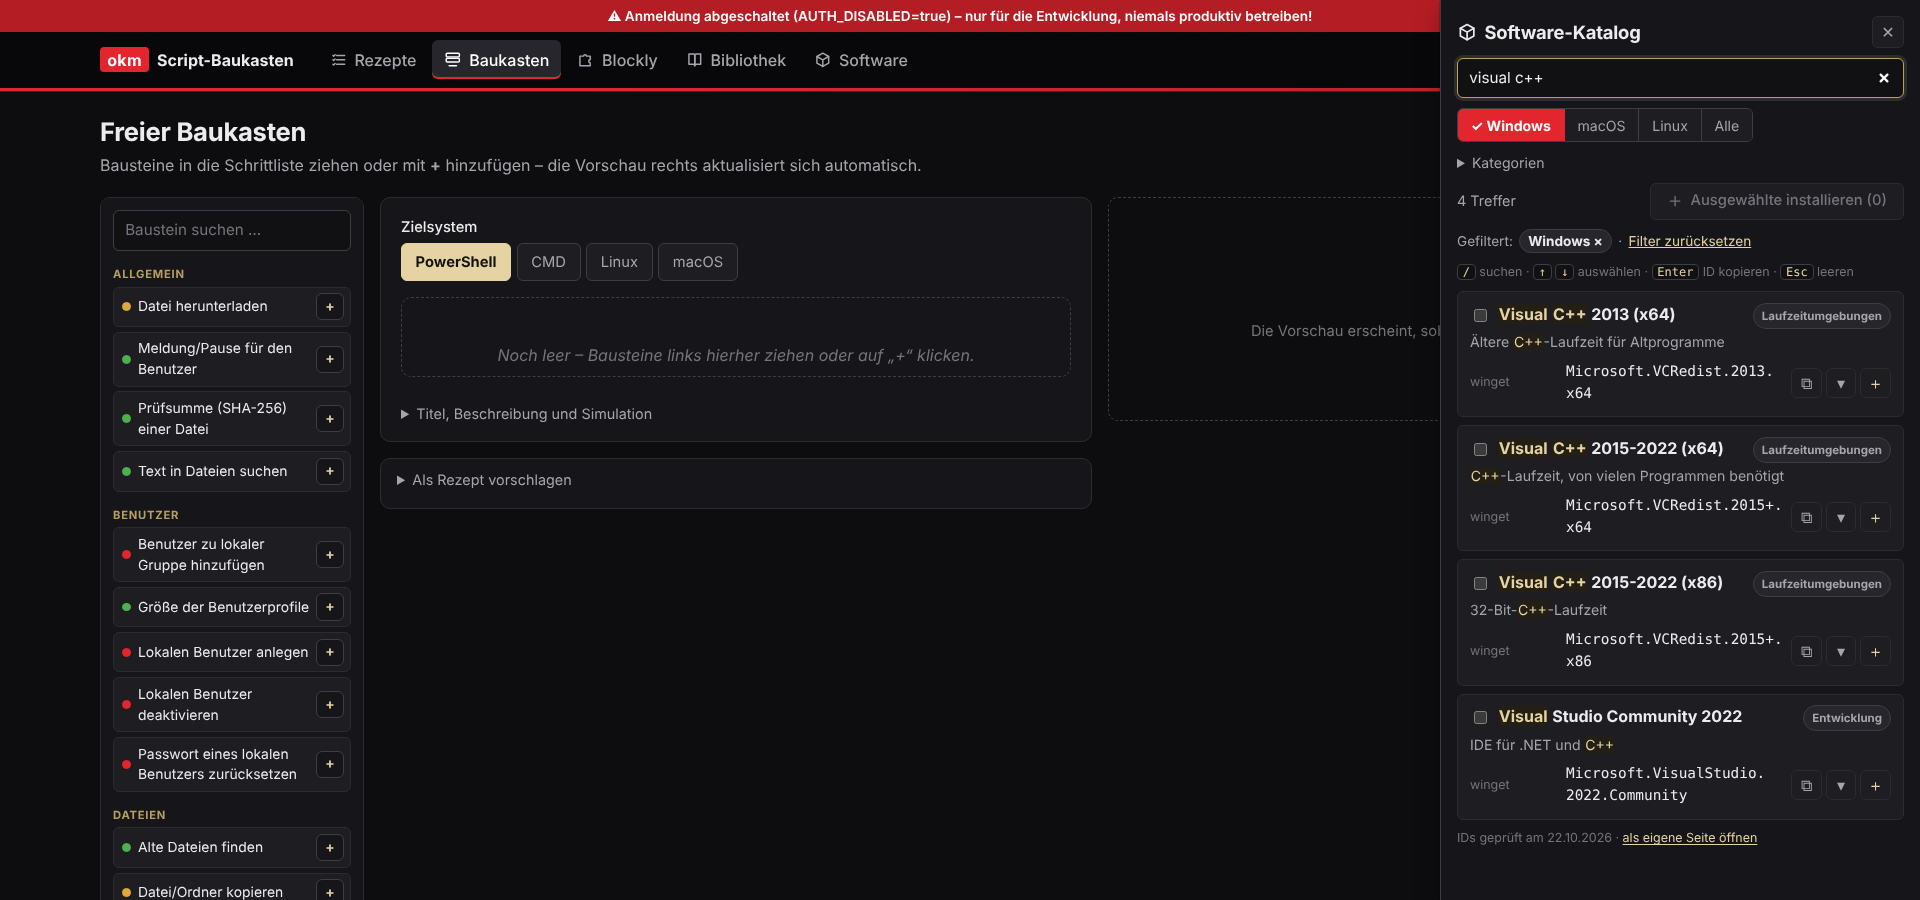
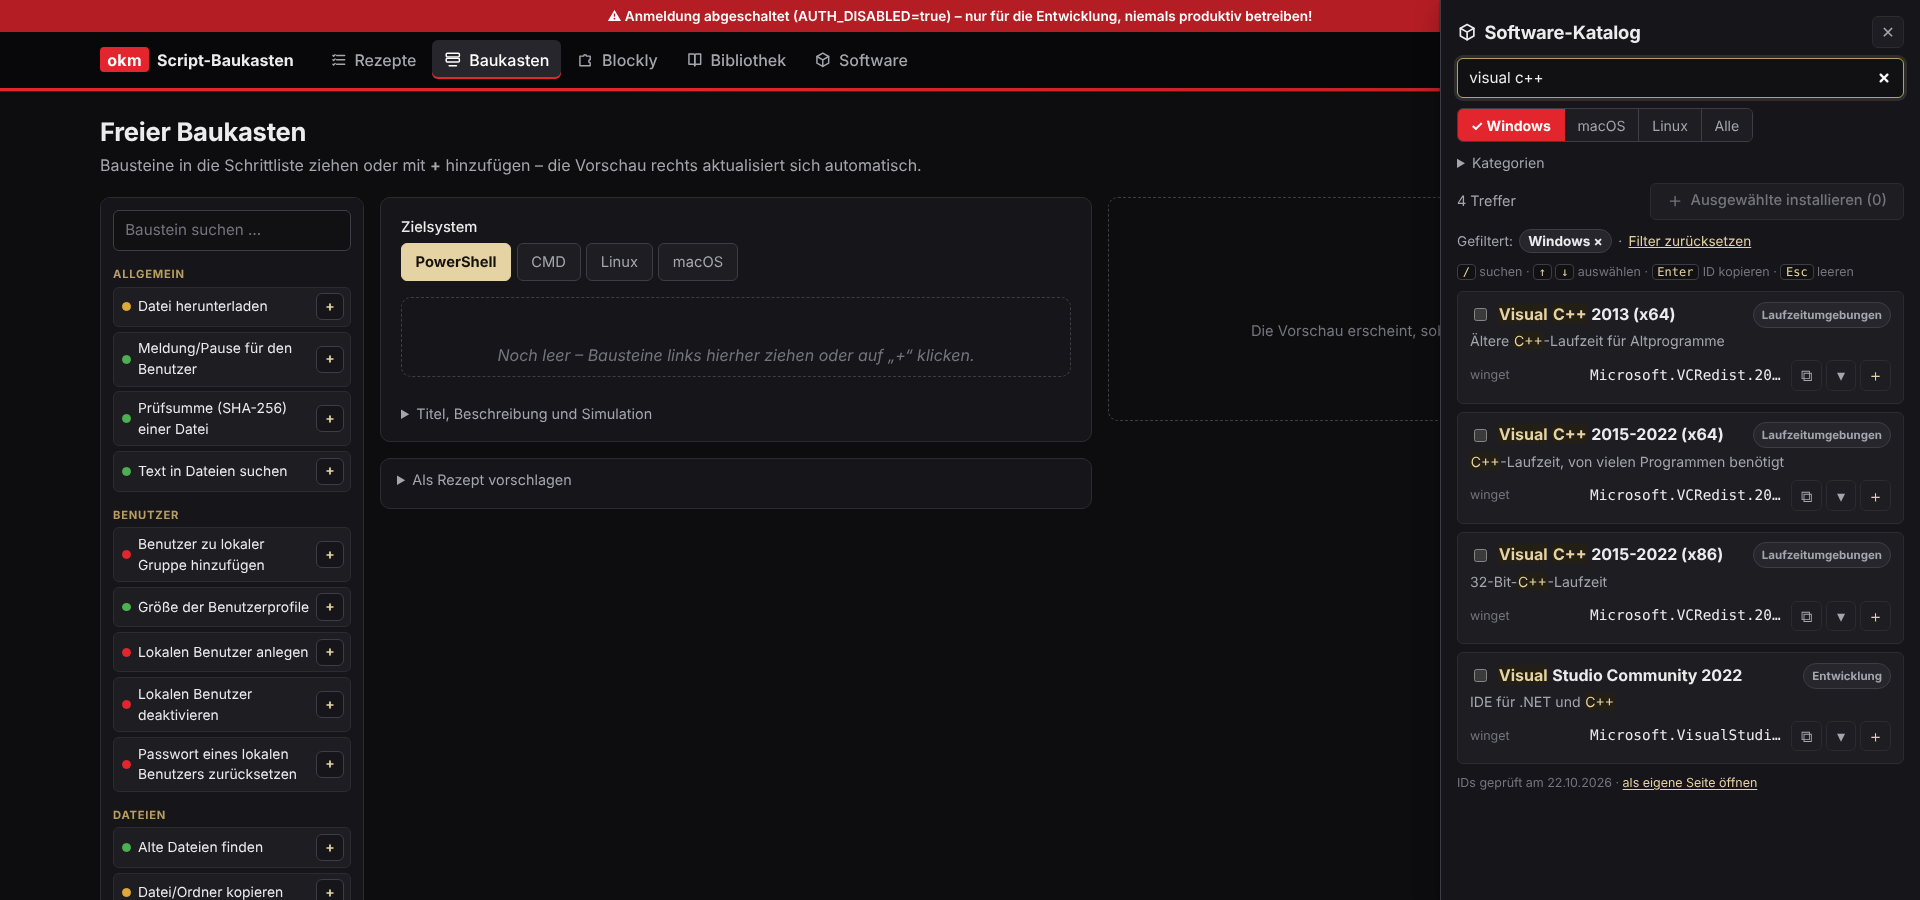
Fix 5: Katalog-Einträge als Grid, IDs einzeilig mit Ellipsis
- Kopf Name | Kategorie, Beschreibung max. 2 Zeilen, ID-Zeile Label | ID | Knöpfe
- IDs nowrap + Ellipsis + title, kein Umbruch mitten in der ID
- Panel min. 340 px, darunter Kartenlayout per Container-Query
- Panel staucht bei vielen Treffern nichts mehr (flex-shrink: 0)
- Screenshots in vier Breiten unter docs/screenshots/

Claude-Session: https://claude.ai/code/session_01SkKuAXLbxc8T3FF1R7xCuD

diff --git a/static/css/app.css b/static/css/app.css
@@ -399,8 +399,11 @@ fieldset { min-width: 0; }
 .schritt-gesperrt { border-left-color: var(--rot); }
 
 /* --- Software-Katalog --------------------------------------------------------- */
-.katalog { display: flex; flex-direction: column; gap: .6rem; }
-.katalog-panel { position: fixed; top: 0; right: 0; bottom: 0; z-index: 30; width: min(30rem, 100vw); padding: 1rem;
+.katalog { display: flex; flex-direction: column; gap: .6rem; container-type: inline-size; }
+/* Im Panel (feste Höhe) nichts stauchen – sonst schiebt sich bei vielen Treffern alles übereinander */
+.katalog > * { flex-shrink: 0; }
+.katalog-panel { position: fixed; top: 0; right: 0; bottom: 0; z-index: 30; width: min(30rem, 100vw);
+  min-width: min(340px, 100vw); padding: 1rem;
   background: var(--flaeche); border-left: 1px solid var(--rand-stark); box-shadow: var(--schatten); overflow-y: auto;
   scrollbar-color: var(--rand-stark) transparent; }
 .katalog-kopf { display: flex; align-items: center; justify-content: space-between; gap: .5rem; }
@@ -438,26 +441,36 @@ fieldset { min-width: 0; }
 .katalog:not(.katalog-panel) .katalog-liste { grid-template-columns: repeat(auto-fill, minmax(22rem, 1fr)); align-items: start; }
 .katalog-eintrag { background: var(--flaeche-2); border: 1px solid var(--rand); border-radius: var(--radius-klein); padding: .6rem .75rem; }
 .katalog-eintrag.katalog-aktiv { border-color: var(--sand); box-shadow: 0 0 0 1px var(--sand); }
-.katalog-eintrag-kopf { display: flex; align-items: baseline; gap: .5rem; }
-.katalog-eintrag-kopf .marke { margin-left: auto; font-size: .72rem; white-space: nowrap; }
+/* Eintrag als Grid: Kopf = Name (darf umbrechen) | Kategorie (bricht nie) */
+.katalog-eintrag-kopf { display: grid; grid-template-columns: minmax(0, 1fr) auto; align-items: start; gap: .5rem; }
+.katalog-eintrag-kopf.mit-auswahl { grid-template-columns: auto minmax(0, 1fr) auto; }
+.katalog-eintrag-kopf .marke { font-size: .72rem; white-space: nowrap; }
 .katalog-auswahl { align-self: center; accent-color: var(--rot); }
-.katalog-beschreibung { color: var(--text-leise); font-size: .88rem; margin: .15rem 0 .4rem; }
+.katalog-beschreibung { color: var(--text-leise); font-size: .88rem; margin: .15rem 0 .4rem; display: -webkit-box;
+  -webkit-box-orient: vertical; -webkit-line-clamp: 2; line-clamp: 2; overflow: hidden; }
 .katalog-hinweis { color: var(--gelb-text); font-size: .8rem; margin: 0 0 .4rem; }
 .katalog-eintrag mark { background: var(--sand-flaeche); color: var(--sand); border-radius: 2px; padding: 0 .05em; }
-.katalog-id { display: flex; align-items: center; gap: .5rem; flex-wrap: wrap; padding: .15rem 0; }
-.katalog-id-label { width: 5.5rem; flex: none; color: var(--text-schwach); font-size: .78rem; }
-.katalog-id code { flex: 1; min-width: 0; color: var(--text); font-size: .9rem; overflow-wrap: anywhere; user-select: all; }
-.katalog-id-knoepfe { display: inline-flex; gap: .25rem; }
-.katalog-id .knopf-klein { min-width: 1.9rem; height: 1.9rem; }
+/* ID-Zeile: Label | ID (eine Zeile, „…“) | Knöpfe (feste Größe, rutschen nie weg) */
+.katalog-id { display: grid; grid-template-columns: 7rem minmax(0, 1fr) auto; align-items: center; gap: .5rem;
+  padding: .15rem 0; }
+.katalog-id-label { color: var(--text-schwach); font-size: .78rem; white-space: nowrap; }
+.katalog-id code { min-width: 0; color: var(--text); font-size: .9rem; white-space: nowrap; overflow: hidden;
+  text-overflow: ellipsis; user-select: all; }
+.katalog-id-knoepfe { display: flex; flex-wrap: nowrap; gap: .25rem; }
+.katalog-id .knopf-klein { flex: none; min-width: 1.9rem; height: 1.9rem; }
 .knopf-uebernehmen:not(:disabled) { color: var(--sand); }
 .knopf-uebernehmen:hover:not(:disabled) { background: var(--rot); border-color: var(--rot); color: #fff; }
 .knopf-uebernehmen:disabled { opacity: .35; cursor: not-allowed; }
-.katalog-strgc { flex-basis: 100%; color: var(--gelb-text); font-size: .8rem; }
+.katalog-strgc { grid-column: 1 / -1; color: var(--gelb-text); font-size: .8rem; }
+/* Schmal (< 340 px): Kartenlayout – Label über der ID statt quetschen */
+@container (max-width: 340px) {
+  .katalog-id { grid-template-columns: minmax(0, 1fr) auto; row-gap: 0; }
+  .katalog-id-label { grid-column: 1 / -1; }
+}
 .katalog-link { font-size: .85rem; }
 .katalog-leer { color: var(--text-leise); margin: 0; }
 @media (max-width: 820px) {
   .katalog-panel { width: 100vw; border-left: 0; }
-  .katalog-id-label { width: 4.2rem; }
   body.katalog-offen { overflow: hidden; }
   .katalog:not(.katalog-panel) .katalog-liste { grid-template-columns: minmax(0, 1fr); }
 }

diff --git a/static/js/software-katalog.js b/static/js/software-katalog.js
@@ -35,23 +35,6 @@
     return e;
   }
 
-  /* ID als <code> mit Umbruchstellen (<wbr>) nach . - / – damit lange IDs nicht mitten im Wort brechen.
-     <wbr> ist kein Zeichen: Markieren und Kopieren liefern weiterhin exakt die ID. */
-  function idCode(id) {
-    var code = el("code");
-    var teil = "";
-    for (var i = 0; i < id.length; i += 1) {
-      teil += id.charAt(i);
-      if (".-/".indexOf(id.charAt(i)) >= 0 && i < id.length - 1) {
-        code.appendChild(document.createTextNode(teil));
-        code.appendChild(document.createElement("wbr"));
-        teil = "";
-      }
-    }
-    code.appendChild(document.createTextNode(teil));
-    return code;
-  }
-
   function start() {
     var wurzel = document.getElementById("software-katalog");
     var daten = document.getElementById("software-katalog-daten");
@@ -184,7 +167,9 @@
     function idZeile(eintrag, uebernahme) {
       var zeile = el("div", "katalog-id");
       zeile.appendChild(el("span", "katalog-id-label", LABEL[eintrag.feld]));
-      var code = idCode(eintrag.id);
+      // Eine Zeile, bei Platzmangel „…“ – die volle ID steht im Tooltip und wird immer ganz kopiert
+      var code = el("code", null, eintrag.id);
+      code.title = eintrag.id;
       zeile.appendChild(code);
       var knoepfe = el("span", "katalog-id-knoepfe");
       var kop = el("button", "knopf-klein", "⧉");
@@ -217,7 +202,7 @@
       var p = t.paket;
       var li = el("li", "katalog-eintrag");
       li.id = "katalog-eintrag-" + nr;
-      var kopf = el("div", "katalog-eintrag-kopf");
+      var kopf = el("div", "katalog-eintrag-kopf" + (modus === "baukasten" ? " mit-auswahl" : ""));
       if (modus === "baukasten") {
         var ziel = zielEintrag(p);
         var box = el("input");
@@ -235,7 +220,9 @@
       kopf.appendChild(markiert("strong", "katalog-name", p.name, anfrage));
       kopf.appendChild(el("span", "marke marke-leise", p.kategorie));
       li.appendChild(kopf);
-      li.appendChild(markiert("p", "katalog-beschreibung", p.beschreibung, anfrage));
+      var beschreibung = markiert("p", "katalog-beschreibung", p.beschreibung, anfrage);
+      beschreibung.title = p.beschreibung;  // höchstens zwei Zeilen sichtbar
+      li.appendChild(beschreibung);
       if (p.hinweis) { li.appendChild(el("p", "katalog-hinweis", p.hinweis)); }
       var uebernahme = kannUebernehmen();
       S.ids(p, zustand.plattform).forEach(function (e) { li.appendChild(idZeile(e, uebernahme)); });
@@ -249,7 +236,9 @@
       if (p.intern) {
         var z = el("div", "katalog-id");
         z.appendChild(el("span", "katalog-id-label", "intern"));
-        z.appendChild(el("code", null, p.intern));
+        var intern = el("code", null, p.intern);
+        intern.title = p.intern;
+        z.appendChild(intern);
         li.appendChild(z);
       }
       return li;

diff --git a/CHANGELOG.md b/CHANGELOG.md
@@ -2,6 +2,22 @@
 
 ## Fehlerbehebung Runde 1
 
+### 5. Software-Katalog: Zeilenumbrüche
+
+- **Ursachen (reproduziert per Playwright bei 360/768/1280/1920 px):**
+  - IDs brachen mitten im Wort um (`overflow-wrap: anywhere` + `<wbr>` nach Punkten:
+    „geeksoftwareGmbH.“ / „PDF24Creator“), Label/ID/Knöpfe flossen frei (Flexbox mit Umbruch).
+  - Im Panel wurden bei vielen Treffern die Flex-Kinder gestaucht: Der Plattform-Umschalter
+    schrumpfte, die Kategorien-Zeile lag darüber und fing Klicks ab.
+- **Lösung:** Eintrag als CSS-Grid – Kopf: Name (darf umbrechen) | Kategorie (bricht nie);
+  Beschreibung höchstens zwei Zeilen (voller Text als `title`); ID-Zeile
+  `7rem | minmax(0, 1fr) | auto` mit `white-space: nowrap` + Ellipsis + `title`, Knöpfe mit
+  fester Größe in derselben Zeile. Panel mindestens 340 px; schmaler (Container-Query) wechselt
+  die Zeile ins Kartenlayout mit dem Label über der ID. `flex-shrink: 0` im Katalog.
+- **Tests:** Playwright misst bei vier Breiten auf `/software` und im Panel: ID einzeilig,
+  `title` = volle ID, kein `break-all`, Knöpfe ≥ 28 px und auf Höhe der ID.
+- Screenshots: `docs/screenshots/katalog-seite-*.png`, `katalog-panel-*.png`.
+
 ### 4. Software-Katalog: aktiver Filter erkennbar
 
 - **Ursache:** Aktive Kategorie-Chips waren nur dunkelsand hinterlegt (kaum Kontrast zu inaktiv),
